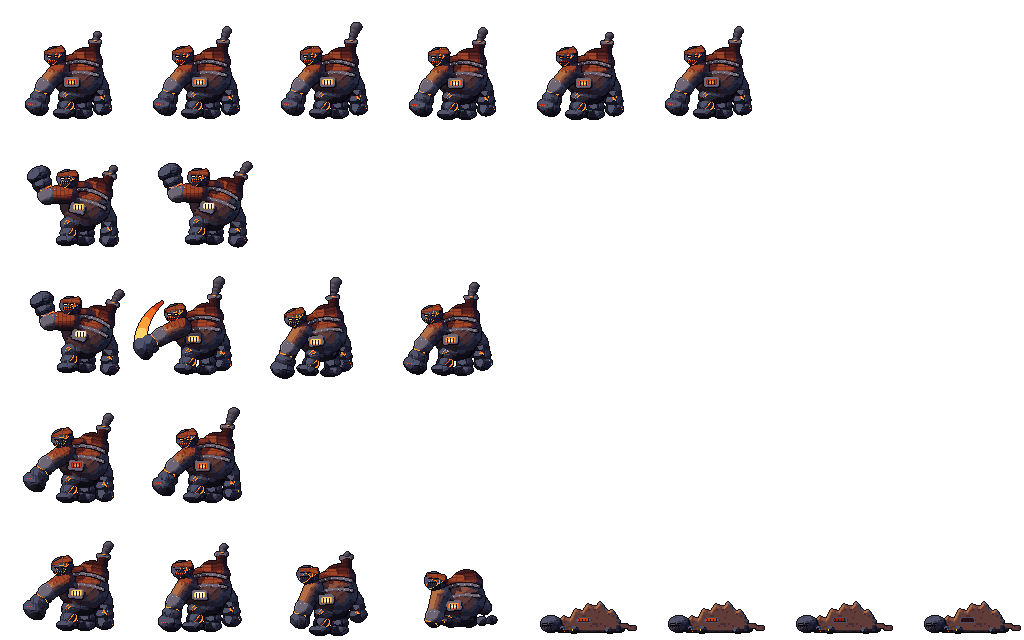
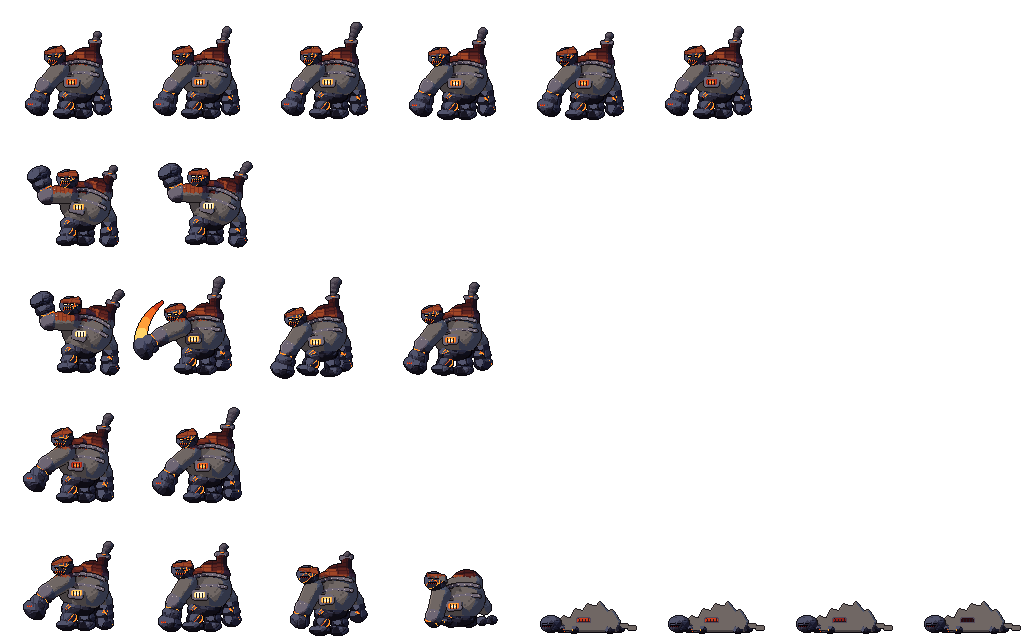
art: F2-PULIDO-D — contraste a 1/4 de flame_moth y soot_golem@sooty ≥ 0,10
- flame_moth: alas cloth +1 paso; 0,099/0,093 → 0,119/0,113 (saturación 0,59 frente a 0,18 del murciélago).
- soot_golem@sooty: ranura soot → ash (pasos 4–6), máscara 0,45 → 0,5; 0,081/0,092 → 0,108/0,120.
  Gólem base idéntico. Métrica oficial (contraste.py de f2_sala2), todos los fotogramas de reposo.
Evidencia y diario en docs/reviews/v04/personajes/f2_pulido_d/.

Claude-Session: https://claude.ai/code/session_01QNUS8YfdZMMBUQPTLseeFn

diff --git a/docs/reviews/v04/personajes/f2_pulido_d/diario.md b/docs/reviews/v04/personajes/f2_pulido_d/diario.md
@@ -1,0 +1,55 @@
+# F2-PULIDO-D · Diario (contraste a 1/4 de `flame_moth` y `soot_golem@sooty`)
+
+Nube Linux, Godot 4.7.2, xvfb. Archivos: `scripts/art/defs/creatures/flame_moth.gd`, `scripts/art/defs/creatures/soot_golem.gd`,
+su horneado (`assets/baked/creatures/flame_moth*`, `soot_golem@sooty*`) y `tests/art/out/qa/flame_moth_qa.png`.
+El gólem base (`soot_golem_prev/idx`, `soot_golem_qa.png`) sale idéntico byte a byte (comprobado con `cmp`).
+
+## Método
+Métrica oficial: `docs/reviews/v04/mundo_vivo/f2_sala2/contraste.py` sin cambios (gris a 1/4, figura frente a anillo de 2
+celdas, mínimo sobre los 6 fotogramas de `idle` y las 8 salas normales, huecos reales del acto 1). `diag_contraste.py.txt` es
+la misma cuenta con la media de figura y de anillo y el mínimo por fotograma. Antes y después se midieron contra una copia
+de `assets/baked/rooms` tomada al empezar (otro agente estaba horneando salas) y otra vez con las salas vivas al terminar.
+Las cifras coinciden.
+
+## Diagnóstico
+En los dos casos la figura es más clara que el anillo (muro): figura ≈ 0,19–0,21 frente a anillo ≈ 0,10–0,115. Oscurecer
+no sirve (habría que bajar de 0,02). Hay que subir el valor medio de la figura unas 0,02.
+
+## Cambios
+- **`flame_moth`**: las rampas de `cloth` de las alas suben un paso. Cercanas 3/5/7 → 4/6/8 y lejanas 1/3/4 → 2/4/5.
+  Ocelos (`fire`), cuerpo, silueta, poses y lienzo no cambian. Sigue siendo roja: tono medio del ala 4° → 7°, saturación
+  HLS 0,56 → 0,59. El murciélago (`cinder_bat`) queda en 24° y 0,18, así que la diferencia de saturación es 0,41.
+- **`soot_golem@sooty`**: la ranura `soot`, que sólo usa la máscara `brick → soot` de la variante, pasa de `rock_soot`
+  (marrón oscuro) a `ash` con `soot_grain` y pasos limitados a 4–6. Es un hollín gris mate de valor medio. La máscara
+  sube de 0,45 a 0,5, así que el ladrillo sigue a la vista en la joroba, en la chimenea y en la cabeza. Es un cambio de
+  material de la variante, no un recoloreado. No hay ningún hex nuevo.
+- Pruebas descartadas en el gólem: `ash` sin límite (0,102, el brazo queda casi blanco y parece ceniza, no hollín);
+  límite en 6 (0,096) o en 5 (0,092); manchas de hollín `noise` en las piernas de carbón (0,097, queda a camuflaje);
+  máscara a 0,62 (0,106, se pierde casi todo el ladrillo y con él la identidad de horno).
+
+## Medida (métrica oficial, mínimo sobre salas y fotogramas)
+| Hueco | Antes | Después |
+|---|---|---|
+| `flame_moth` @396 | 0,099 | **0,119** |
+| `flame_moth` @540 | 0,093 | **0,113** |
+| `soot_golem@sooty` @396 | 0,081 | **0,108** |
+| `soot_golem@sooty` @466 | 0,092 | **0,120** |
+
+Mínimo por fotograma, f0–f5, después: polilla @540 0,119 · 0,119 · 0,118 · 0,119 · 0,114 · 0,113; gólem tiznado @396
+0,110 · 0,112 · 0,114 · 0,114 · 0,111 · 0,108. El resto de criaturas da las mismas cifras que en el diario de F2-SALA2.
+
+## Evidencia
+- `antes_despues_flame_moth.png` (@540, sala 5, f5) y `antes_despues_soot_golem_sooty.png` (@396, sala 6, f5). Son los
+  peores casos. De izquierda a derecha: color antes, color después, gris a 1/4 antes y gris a 1/4 después.
+- `tools/qa.sh bake --only=flame_moth,soot_golem`: 2 horneadas, 0 errores. `tools/qa.sh all`: QA 1745/0, arte 5 suites/0.
+  En una pasada intermedia `bake_rooms --check` salió en rojo porque otro agente estaba cambiando las fuentes de las
+  salas. No es de este paquete.
+- Recorrido `SHOTS_DIR=/tmp/claude-0/shots_pd`: SMOKE OK, sin errores salvo `ERR_CANT_OPEN` (audio). Revisada la captura
+  18b: la polilla se lee roja junto al murciélago gris.
+- Hojas revisadas: `flame_moth_qa.png` y el atlas completo de `soot_golem@sooty` (reposo, cast, ataque, golpe y muerte).
+
+## Pendiente / no comprobado
+- `soot_golem@sooty` no sale en el recorrido. Sólo se revisó en la hoja horneada y en la composición de la métrica.
+- El gólem base mide 0,078/0,089 en esos mismos huecos. No está en la lista oficial y el encargo pedía no cambiarlo, así
+  que lo decide dirección.
+- El hollín es gris y más claro que el ladrillo en sombra. Es una decisión de valor que conviene que confirme dirección.
